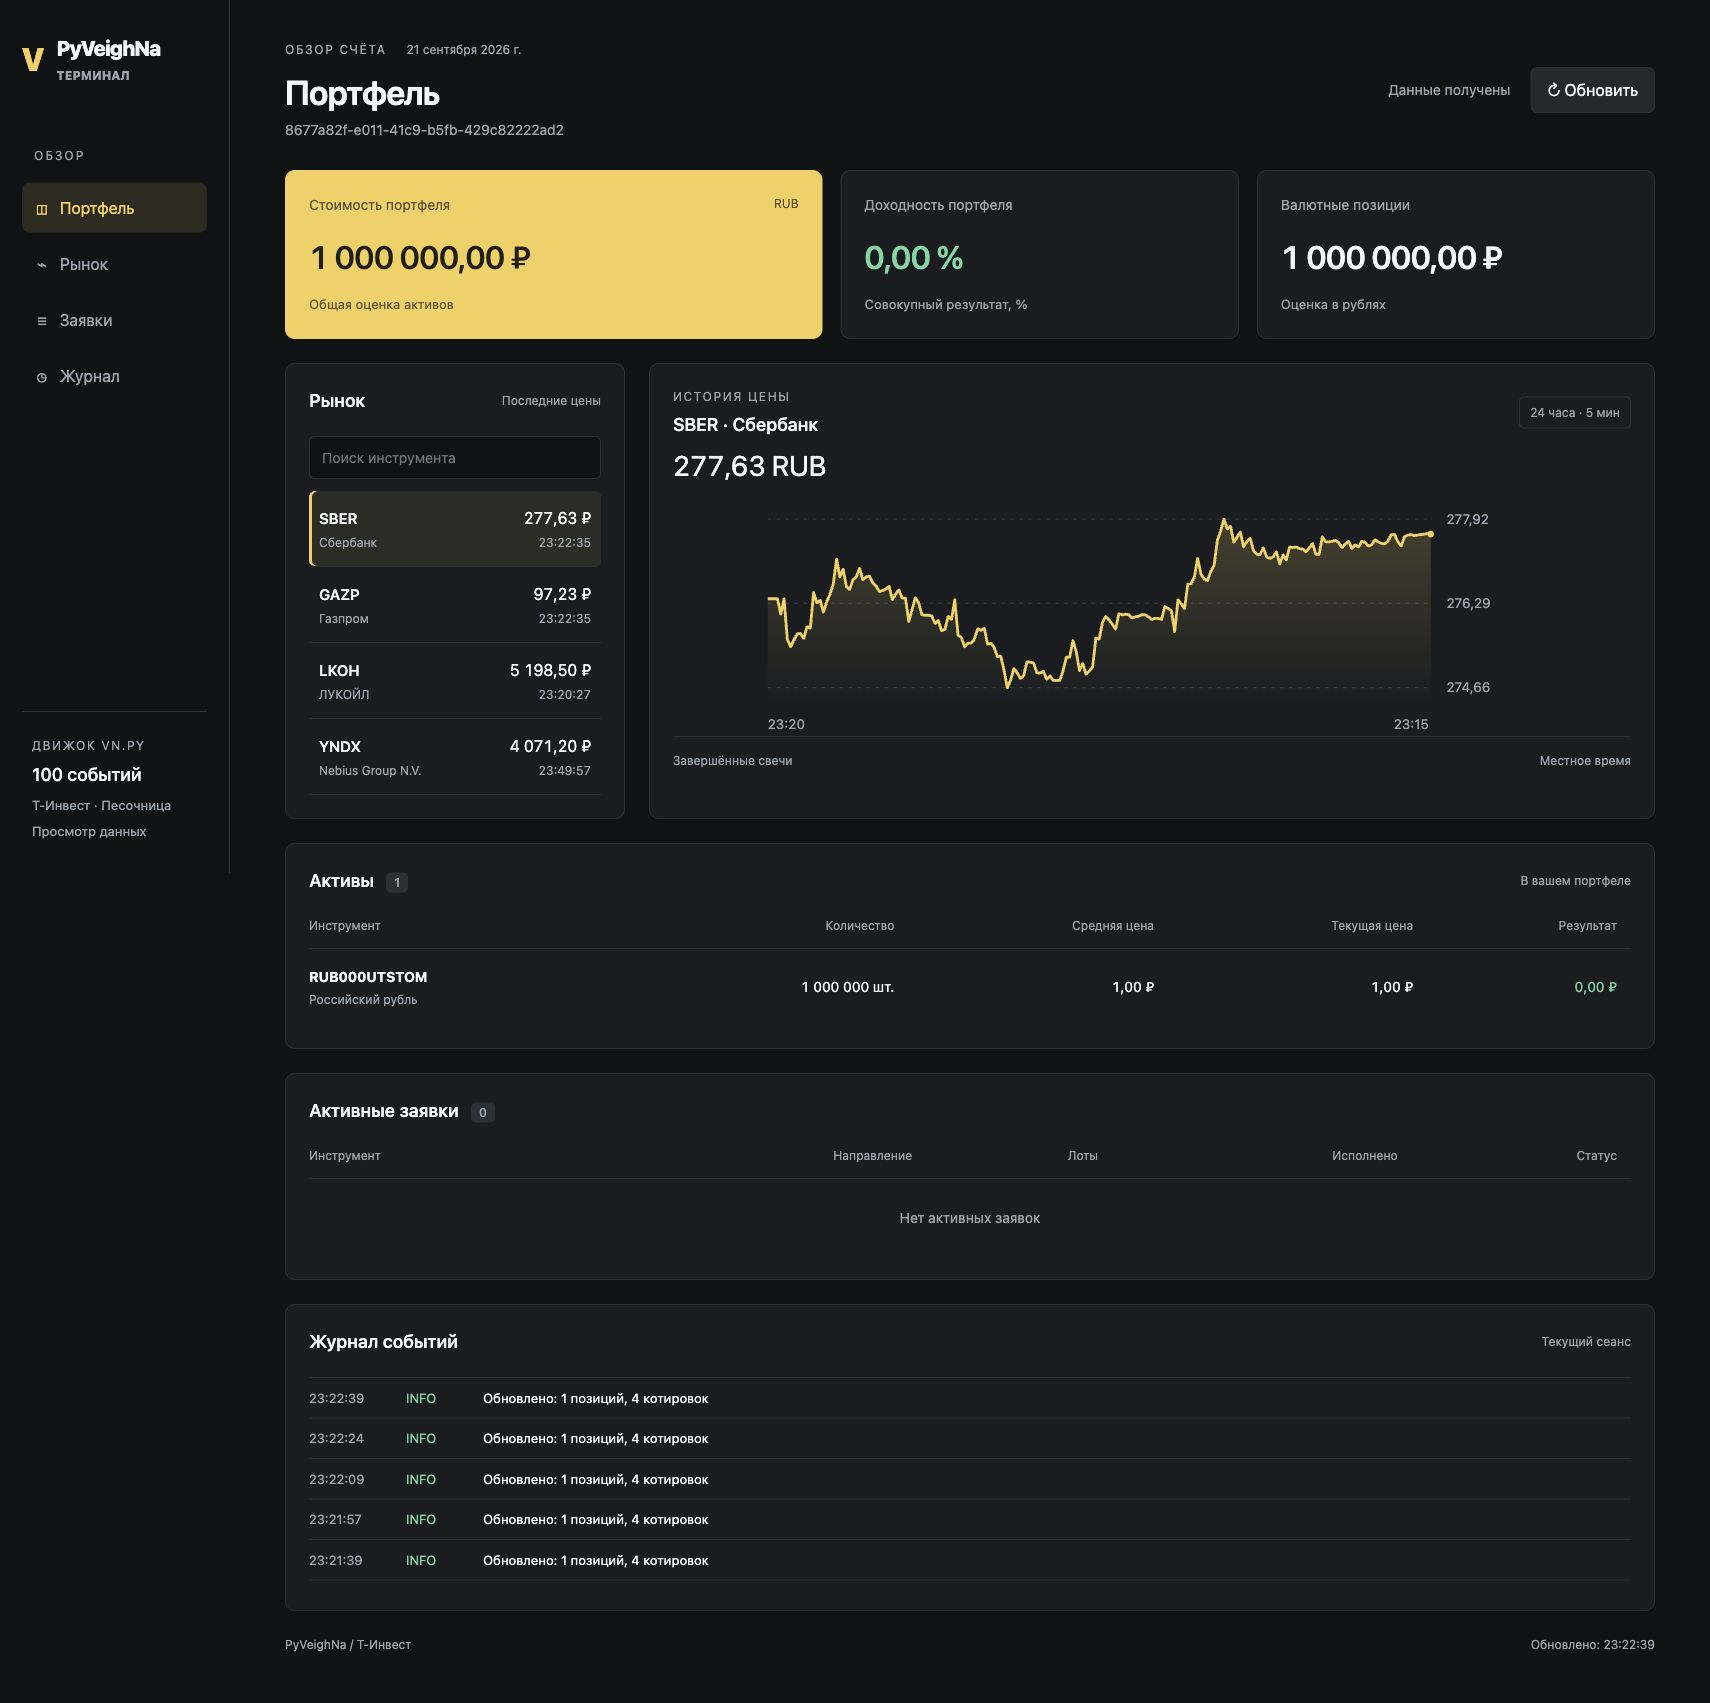
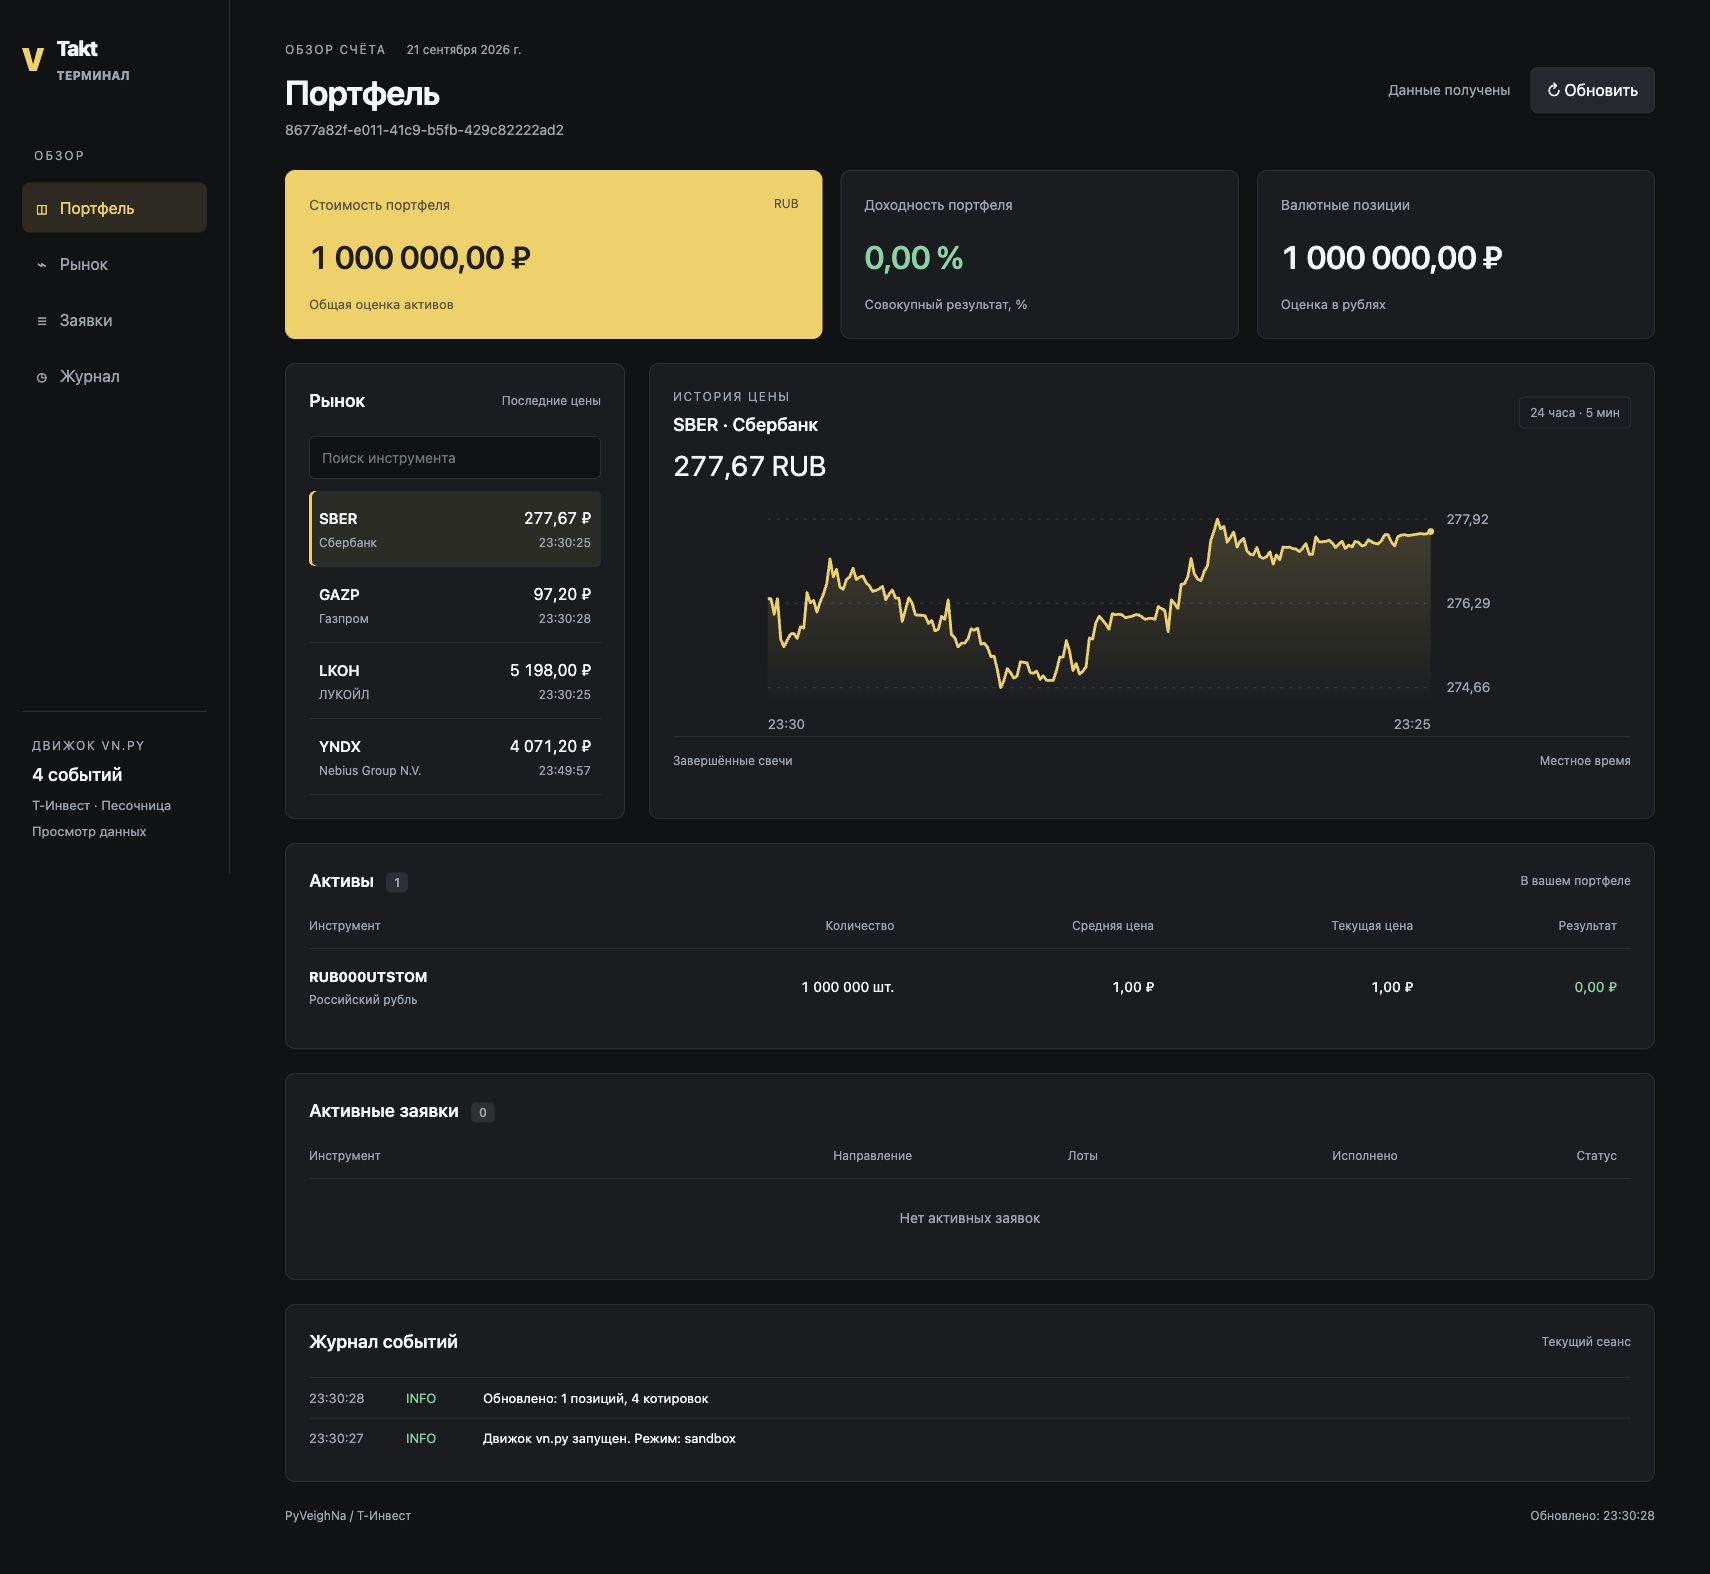
docs: refresh Takt screenshot and update UI branding

diff --git a/pyveighna/web/index.html b/pyveighna/web/index.html
@@ -10,7 +10,7 @@
 </head>
 <body>
 <div class="shell">
-    <aside><a class="brand" href="/">V<span>PyVeighNa<small>ТЕРМИНАЛ</small></span></a>
+    <aside><a class="brand" href="/">V<span>Takt<small>ТЕРМИНАЛ</small></span></a>
         <div class="nav-title">ОБЗОР</div>
         <a class="nav active" href="#portfolio">◫ <span>Портфель</span></a><a class="nav" href="#market">⌁
             <span>Рынок</span></a><a class="nav" href="#orders">≡ <span>Заявки</span></a><a class="nav" href="#journal">◷
